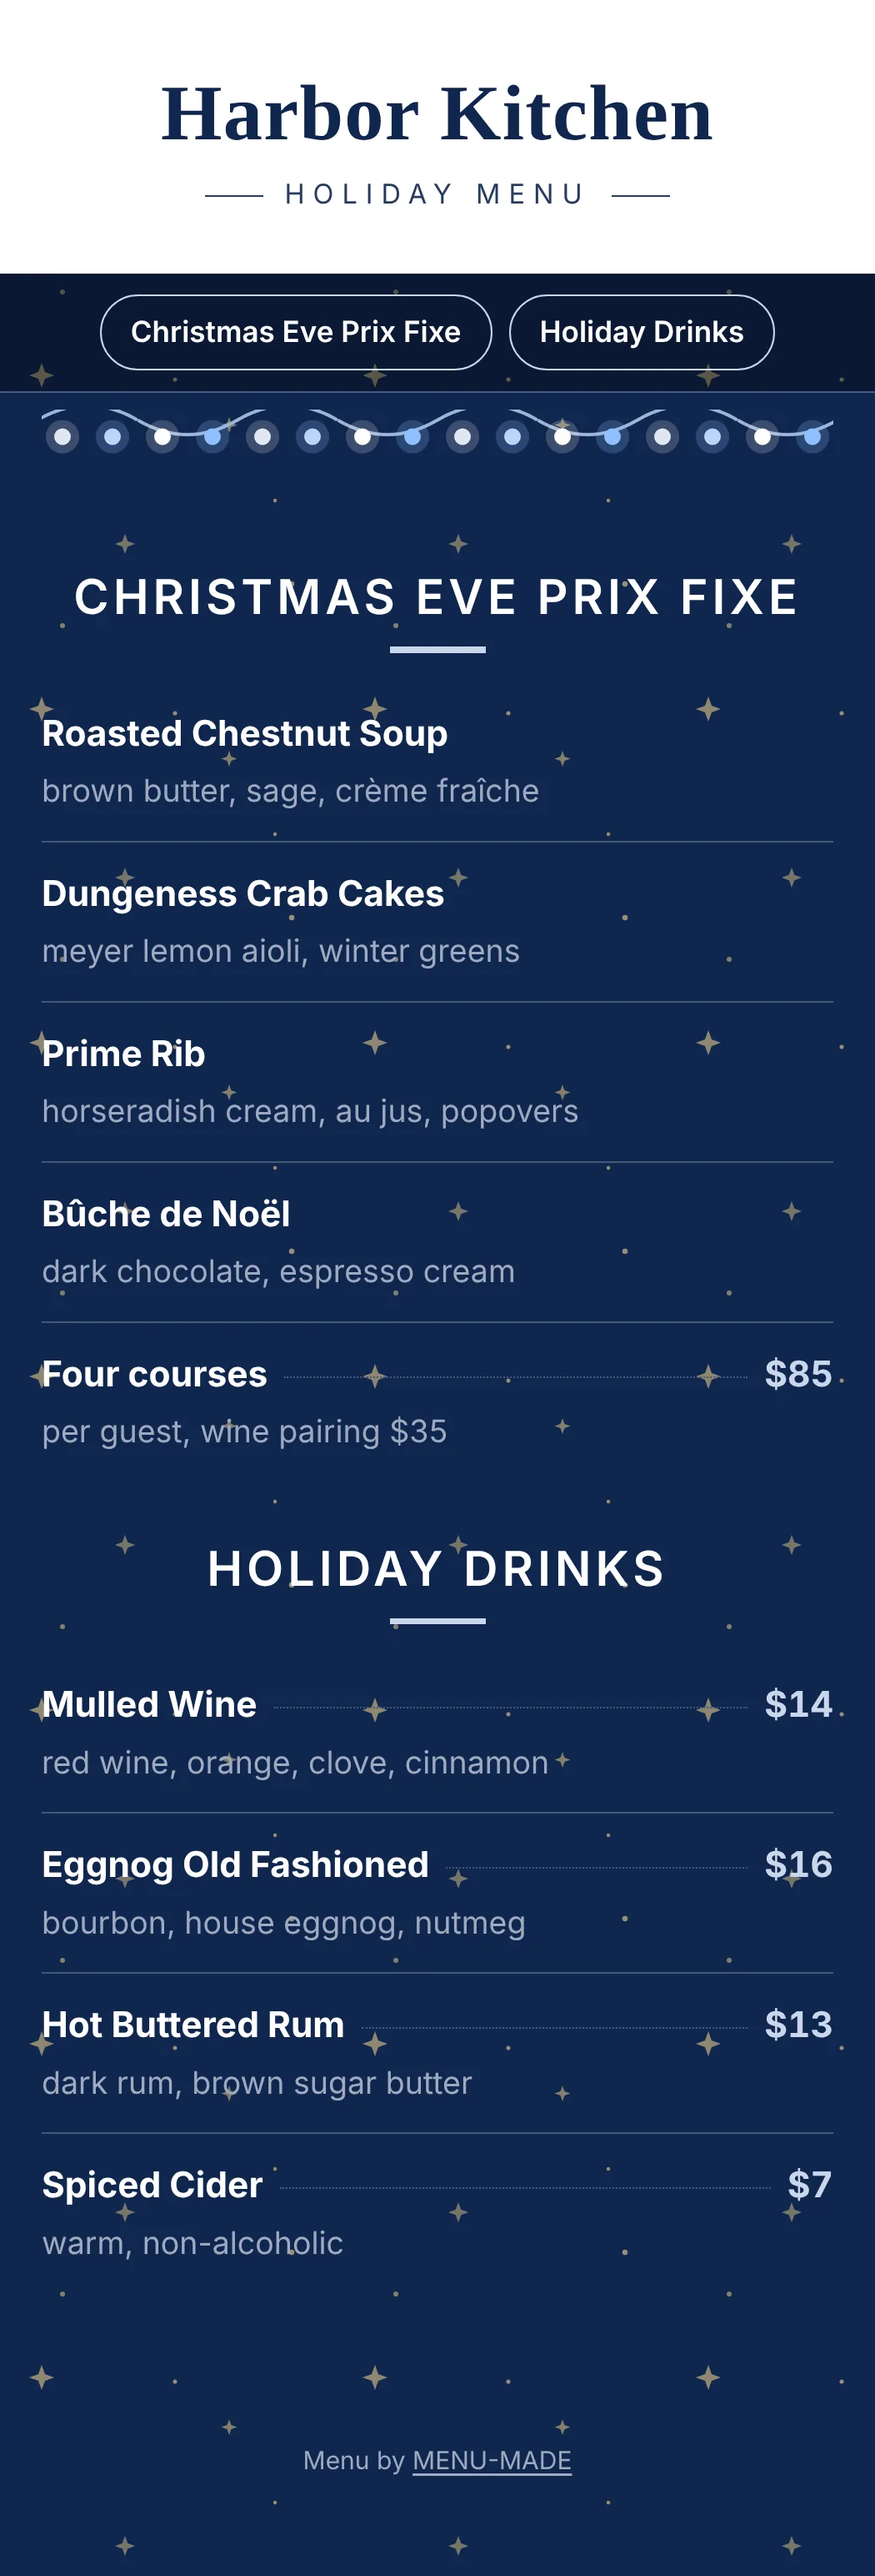
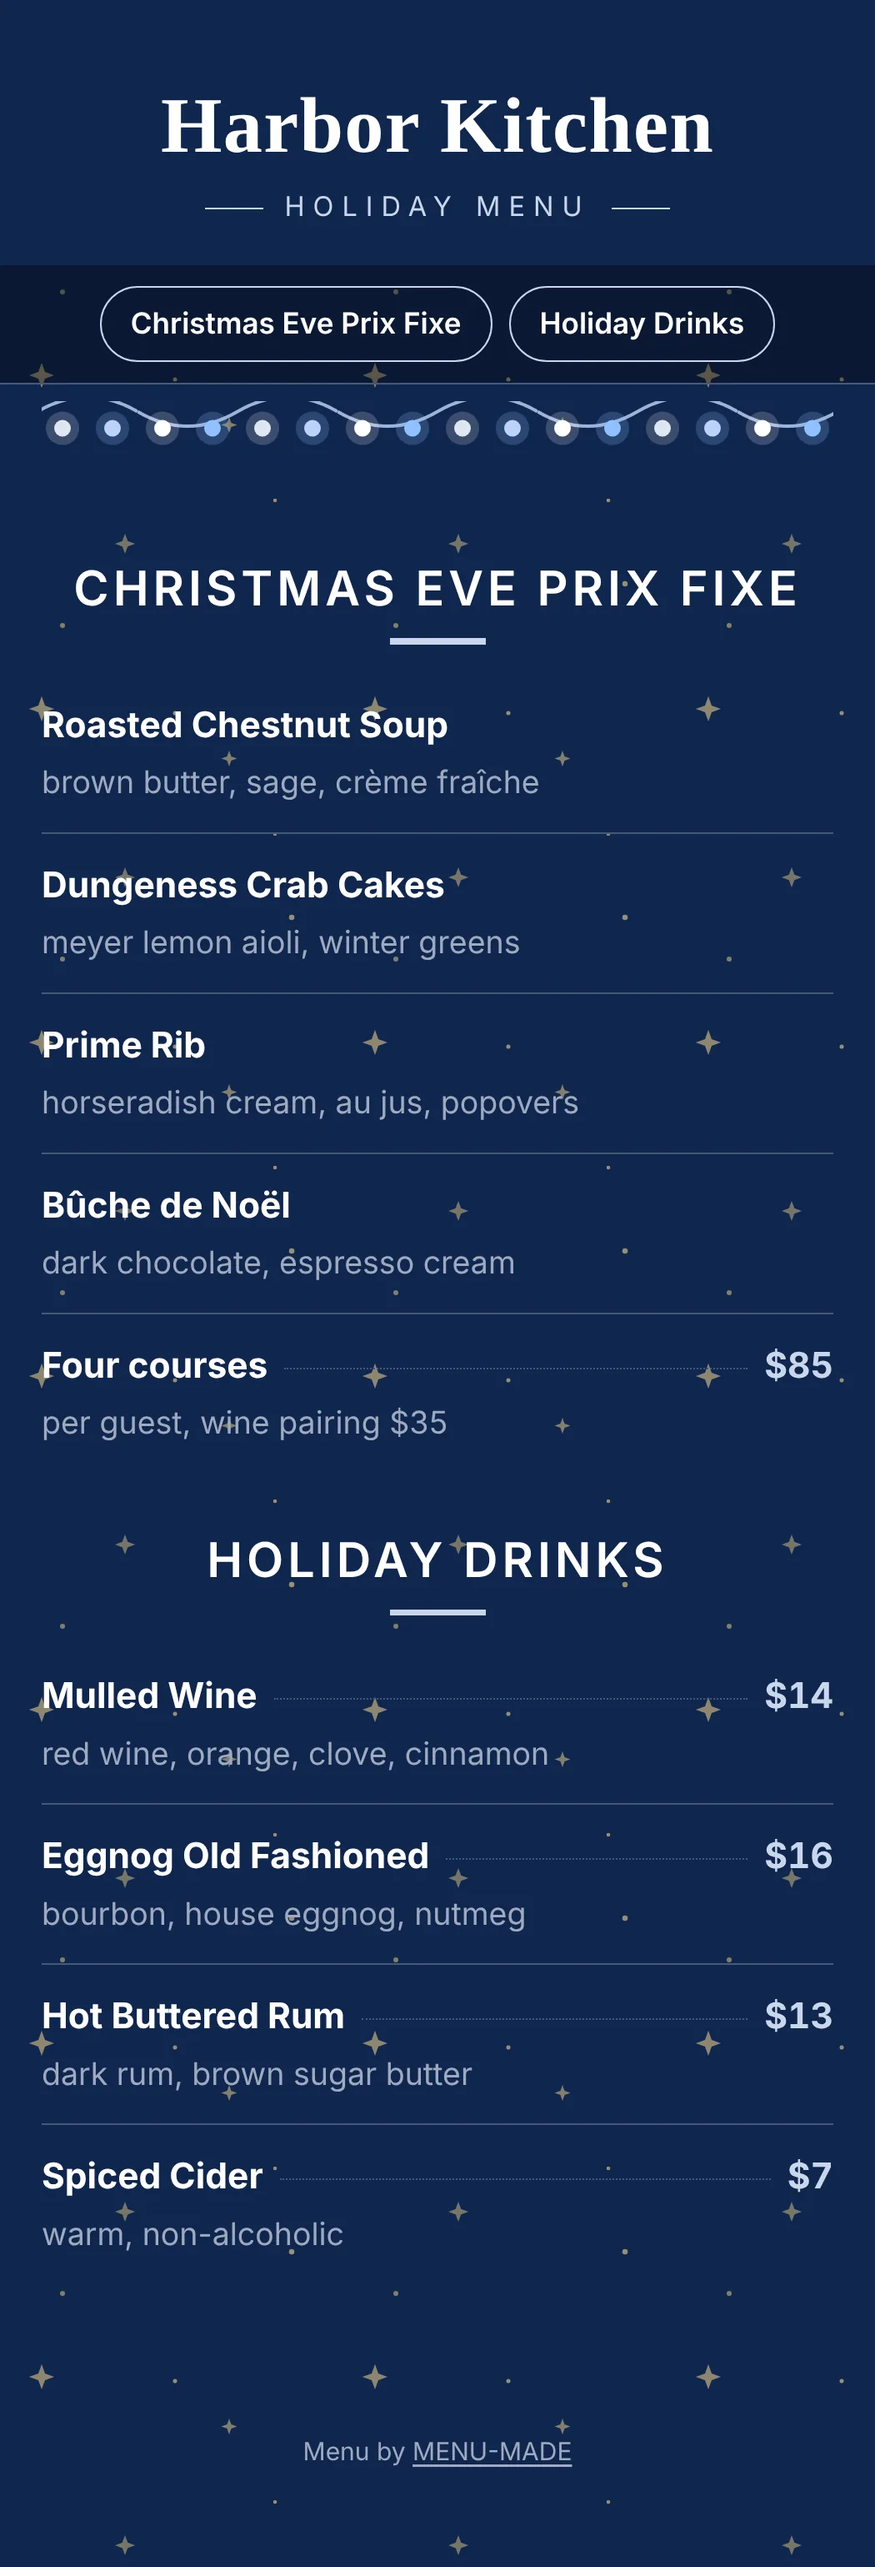
Winter Lights: the header is the same blue as the page, not white (#209)
Owner (Nov 12): "The top part of the blue menu should be the same blue background or not white".

Claude-Session: https://claude.ai/code/session_012DnLqUx1W7uSZzu6R5Mc3v

diff --git a/booking-api/src/producers/menu-qr/menu-designs.js b/booking-api/src/producers/menu-qr/menu-designs.js
@@ -47,9 +47,10 @@ const HOLIDAY_DESIGNS = [
     style: { paper: "#1a1240", text: "#f1eefc", heading: "#ffd166", accent: "#ef476f", item: "#ffffff", price: "#ffd166", title_font: "condensed-sans", heading_font: "condensed-sans", body_font: "modern-sans", heading_case: "upper", item_case: "as-printed", heading_align: "left", divider: "none", item_layout: "grid", header: "hero", nav: "tabs", section: "fill", texture: "confetti" } },
   // Either holiday (owner, Nov 12, 2026: "add 3 that fit either holiday and include a slight hanuka colors
   // template"). Each holiday's generator shows its own three, then these three; the other holiday's are left out.
-  // Winter Lights is the one in blue, white and silver; it carries no holiday symbol, only the colours.
+  // Winter Lights is the one in blue, white and silver; it carries no holiday symbol, only the colours. Its header is
+  // the same blue as the page (owner, Nov 12, 2026: the top "should be the same blue background or not white").
   { key: "winterlights", occasion: "either", label: "Winter Lights", blurb: "Deep blue, white and silver, a string of lights under the name",
-    style: { paper: "#10264f", text: "#eaf0fb", heading: "#ffffff", accent: "#c9d6ea", item: "#ffffff", price: "#c9d6ea", title_font: "elegant-serif", heading_font: "modern-sans", body_font: "modern-sans", heading_case: "upper", item_case: "as-printed", heading_align: "center", divider: "star", item_layout: "stacked", header: "band", nav: "pills", section: "short", texture: "stars", deco: "lights" } },
+    style: { paper: "#10264f", text: "#eaf0fb", heading: "#ffffff", accent: "#c9d6ea", item: "#ffffff", price: "#c9d6ea", title_font: "elegant-serif", heading_font: "modern-sans", body_font: "modern-sans", heading_case: "upper", item_case: "as-printed", heading_align: "center", divider: "star", item_layout: "stacked", header: "plain", nav: "pills", section: "short", texture: "stars", deco: "lights" } },
   { key: "candlelight", occasion: "either", label: "Candlelight", blurb: "Warm espresso and amber, framed title, centred courses",
     style: { paper: "#24160f", text: "#f3e6d3", heading: "#f0b45a", accent: "#f0b45a", item: "#fff6e8", price: "#f0b45a", title_font: "script", heading_font: "elegant-serif", body_font: "classic-serif", heading_case: "upper", item_case: "as-printed", heading_align: "center", divider: "ornament", item_layout: "centered", header: "frame", nav: "links", section: "label", frame: "line" } },
   // Owner, Nov 12, 2026: "replace the green and white one with a silver and gold one" (was Winter Greens).
